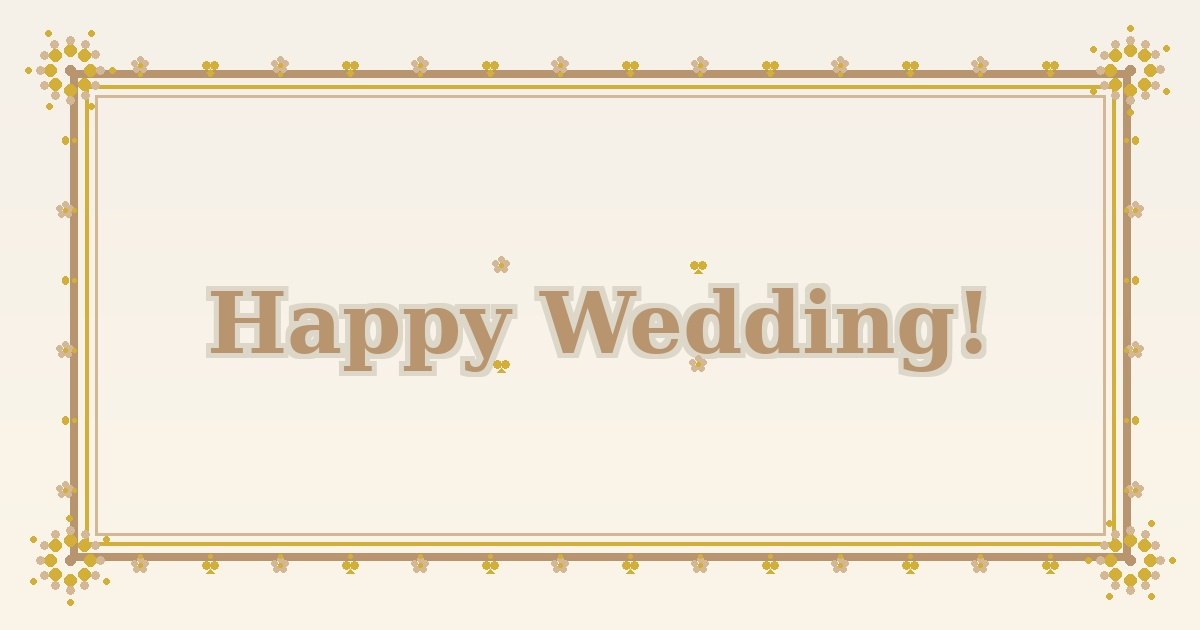
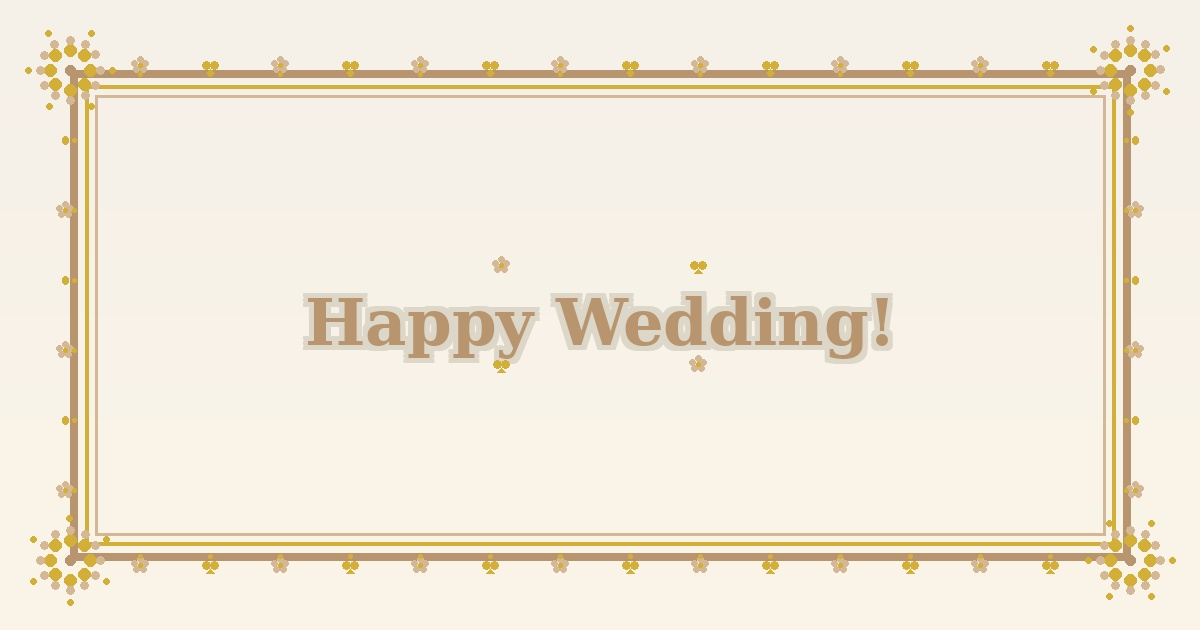
best picture

Changed region(s): [[0.1542, 0.4524, 0.8325, 0.6032]]

diff --git a/generate_nh_image.py b/generate_nh_image.py
@@ -177,7 +177,7 @@ try:
     ]
     
     main_font = None
-    font_size_main = 85  # Smaller font size
+    font_size_main = 64  # 3/4 of previous size (85 * 0.75)
     
     for font_path in font_paths:
         try:
@@ -188,10 +188,10 @@ try:
     
     if main_font is None:
         main_font = ImageFont.load_default()
-        font_size_main = 50
+        font_size_main = 38  # 3/4 of fallback (50 * 0.75)
 except:
     main_font = ImageFont.load_default()
-    font_size_main = 50
+    font_size_main = 38
 
 # Text to display
 text = "Happy Wedding!"
